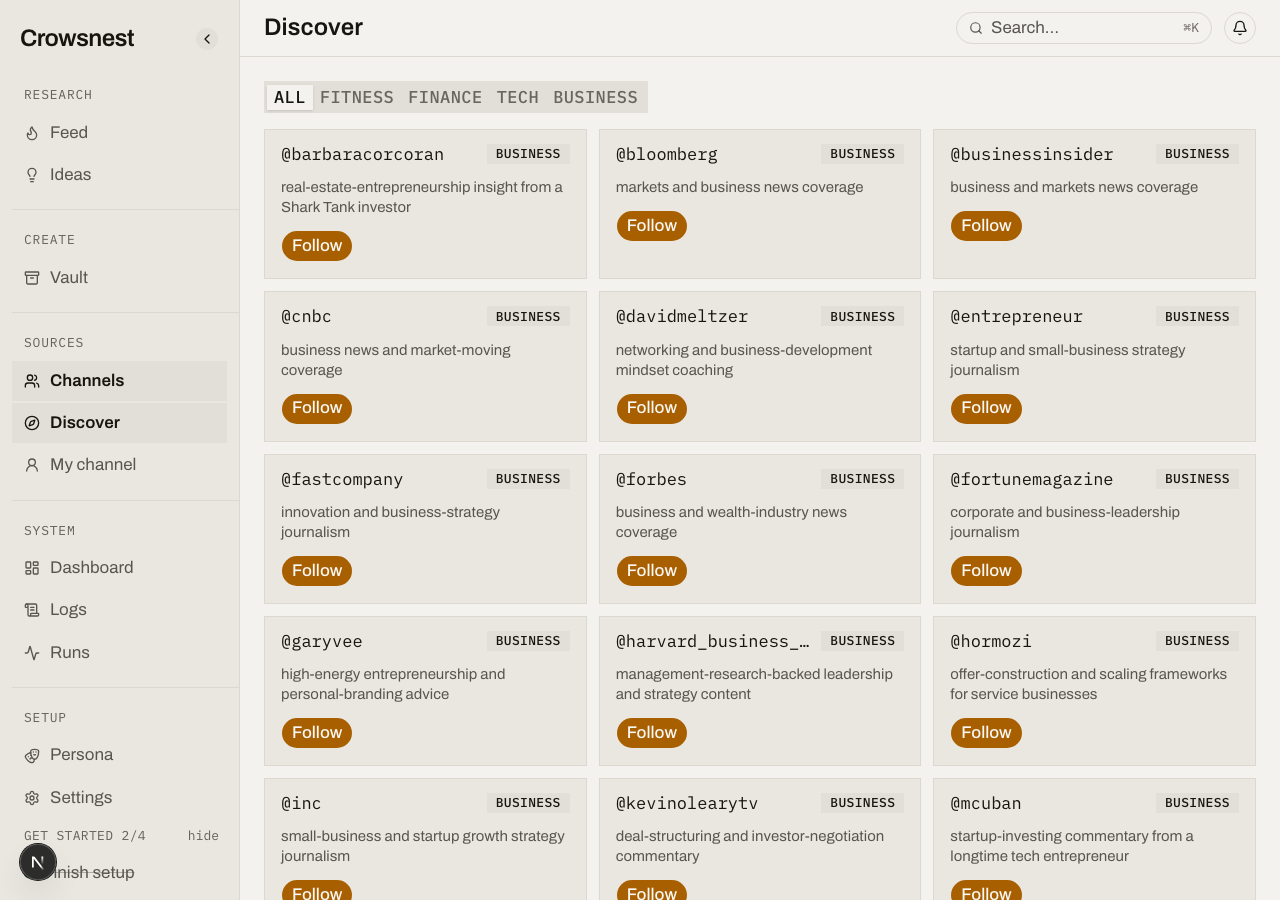
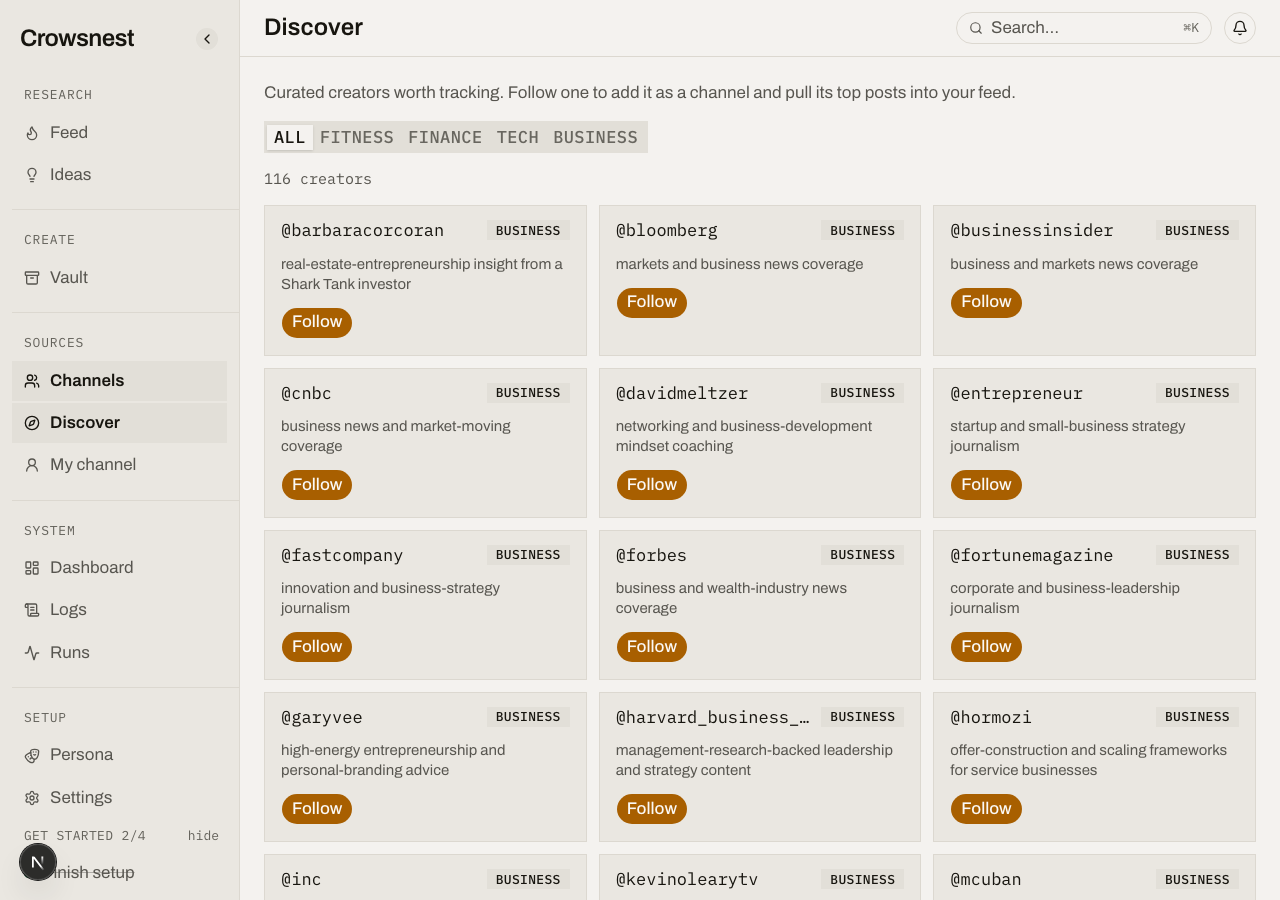
feat(discover): round 2 first-user polish — orient the board, close the follow loop
Round 2 product pass, walking /channels/discover as a first-time user. Fixed the
top 3 friction points in what this goal built.

- Orientation: the board dropped you into a filter and a wall of cards with no
  statement of purpose. Added a one-line muted lede ("Curated creators worth
  tracking. Follow one to add it as a channel and pull its top posts into your
  feed.") and a mono result count so the list has scale.
- Follow was a dead-end: a real sync queues on follow but the card only flipped to
  "Tracked" with no signal. New follows now toast where the posts go and whether a
  sync started now or waits for the next run; an idempotent re-follow stays silent.
- Tests: added coverage for the new-follow-toasts / already-tracked-silent split.

Design stays within Instrument Panel: muted text, mono count, no amber, flat.
Evidence screenshots refreshed. Gate green: typecheck, lint (0 errors), 1635
tests, build, testid-audit (27).

Claude-Session: https://claude.ai/code/session_011SpeLmkK4KymnrcYeBmMMP

diff --git a/src/components/discover/creator-seed-card.test.tsx b/src/components/discover/creator-seed-card.test.tsx
@@ -18,6 +18,8 @@ const mocks = vi.hoisted(() => ({
 vi.mock("@/server/actions/discover-actions", () => mocks);
 vi.mock("sonner", () => ({ toast: { error: vi.fn(), success: vi.fn() } }));
 
+import { toast } from "sonner";
+
 import { CreatorSeedCard } from "./creator-seed-card";
 
 function seed(overrides: Partial<CreatorSeedRow> = {}): CreatorSeedRow {
@@ -83,6 +85,36 @@ test("calls onFollowed with the handle after a successful follow", async () => {
   });
 
   expect(onFollowed).toHaveBeenCalledWith("lift.laura");
+});
+
+test("a new follow toasts where the posts go; an already-tracked one stays silent", async () => {
+  mocks.followCreatorAction.mockResolvedValue({
+    ok: true,
+    syncQueued: true,
+    alreadyTracked: false,
+    channelId: "c1",
+  });
+
+  render(<CreatorSeedCard seed={seed()} />);
+  await act(async () => {
+    fireEvent.click(screen.getByTestId("creator-seed-follow"));
+  });
+
+  expect(toast.success).toHaveBeenCalledWith(expect.stringContaining("watch Runs"));
+
+  vi.mocked(toast.success).mockClear();
+  mocks.followCreatorAction.mockResolvedValue({
+    ok: true,
+    syncQueued: false,
+    alreadyTracked: true,
+    channelId: "c1",
+  });
+  render(<CreatorSeedCard seed={seed({ handle: "already.there" })} />);
+  await act(async () => {
+    fireEvent.click(screen.getAllByTestId("creator-seed-follow")[1]);
+  });
+  // An idempotent re-follow queues nothing, so it must not claim posts are syncing.
+  expect(toast.success).not.toHaveBeenCalled();
 });
 
 test("does not call onFollowed when the follow fails", async () => {

diff --git a/src/components/discover/discover-board.tsx b/src/components/discover/discover-board.tsx
@@ -36,6 +36,13 @@ export function DiscoverBoard({ seeds }: { seeds: CreatorSeedRow[] }) {
 
   return (
     <div className="flex flex-col gap-4">
+      {/* First-run orientation: without this the page is a filter and a wall of cards
+          with no statement of what following does. One muted line, no amber. */}
+      <p className="text-sm text-muted-foreground" data-testid="discover-lede">
+        Curated creators worth tracking. Follow one to add it as a channel and pull its top
+        posts into your feed.
+      </p>
+
       <Tabs value={niche} onValueChange={(v) => setNiche(v as Niche)}>
         <TabsList data-testid="discover-niche-filter">
           {NICHES.map((n) => (
@@ -45,6 +52,12 @@ export function DiscoverBoard({ seeds }: { seeds: CreatorSeedRow[] }) {
           ))}
         </TabsList>
       </Tabs>
+
+      <p className="font-mono text-xs text-muted-foreground" data-testid="discover-count">
+        {niche === "all"
+          ? `${seeds.length} creators`
+          : `${filtered.length} of ${seeds.length} creators`}
+      </p>
 
       {filtered.length === 0 ? (
         <p className="text-sm text-muted-foreground">No creators in this niche.</p>

diff --git a/src/components/discover/creator-seed-card.tsx b/src/components/discover/creator-seed-card.tsx
@@ -29,6 +29,15 @@ export function CreatorSeedCard({
       if (result.ok) {
         setState("tracked");
         onFollowed?.(seed.handle);
+        // Close the loop: a bare "Tracked" leaves a first-timer unsure anything
+        // happened. Say where the posts go, and whether a sync started now or waits.
+        if (!result.alreadyTracked) {
+          toast.success(
+            result.syncQueued
+              ? `Following @${seed.handle}. Pulling top posts now — watch Runs.`
+              : `Following @${seed.handle}. Posts sync on the next run.`
+          );
+        }
       } else {
         setState("idle");
         toast.error(result.error);
